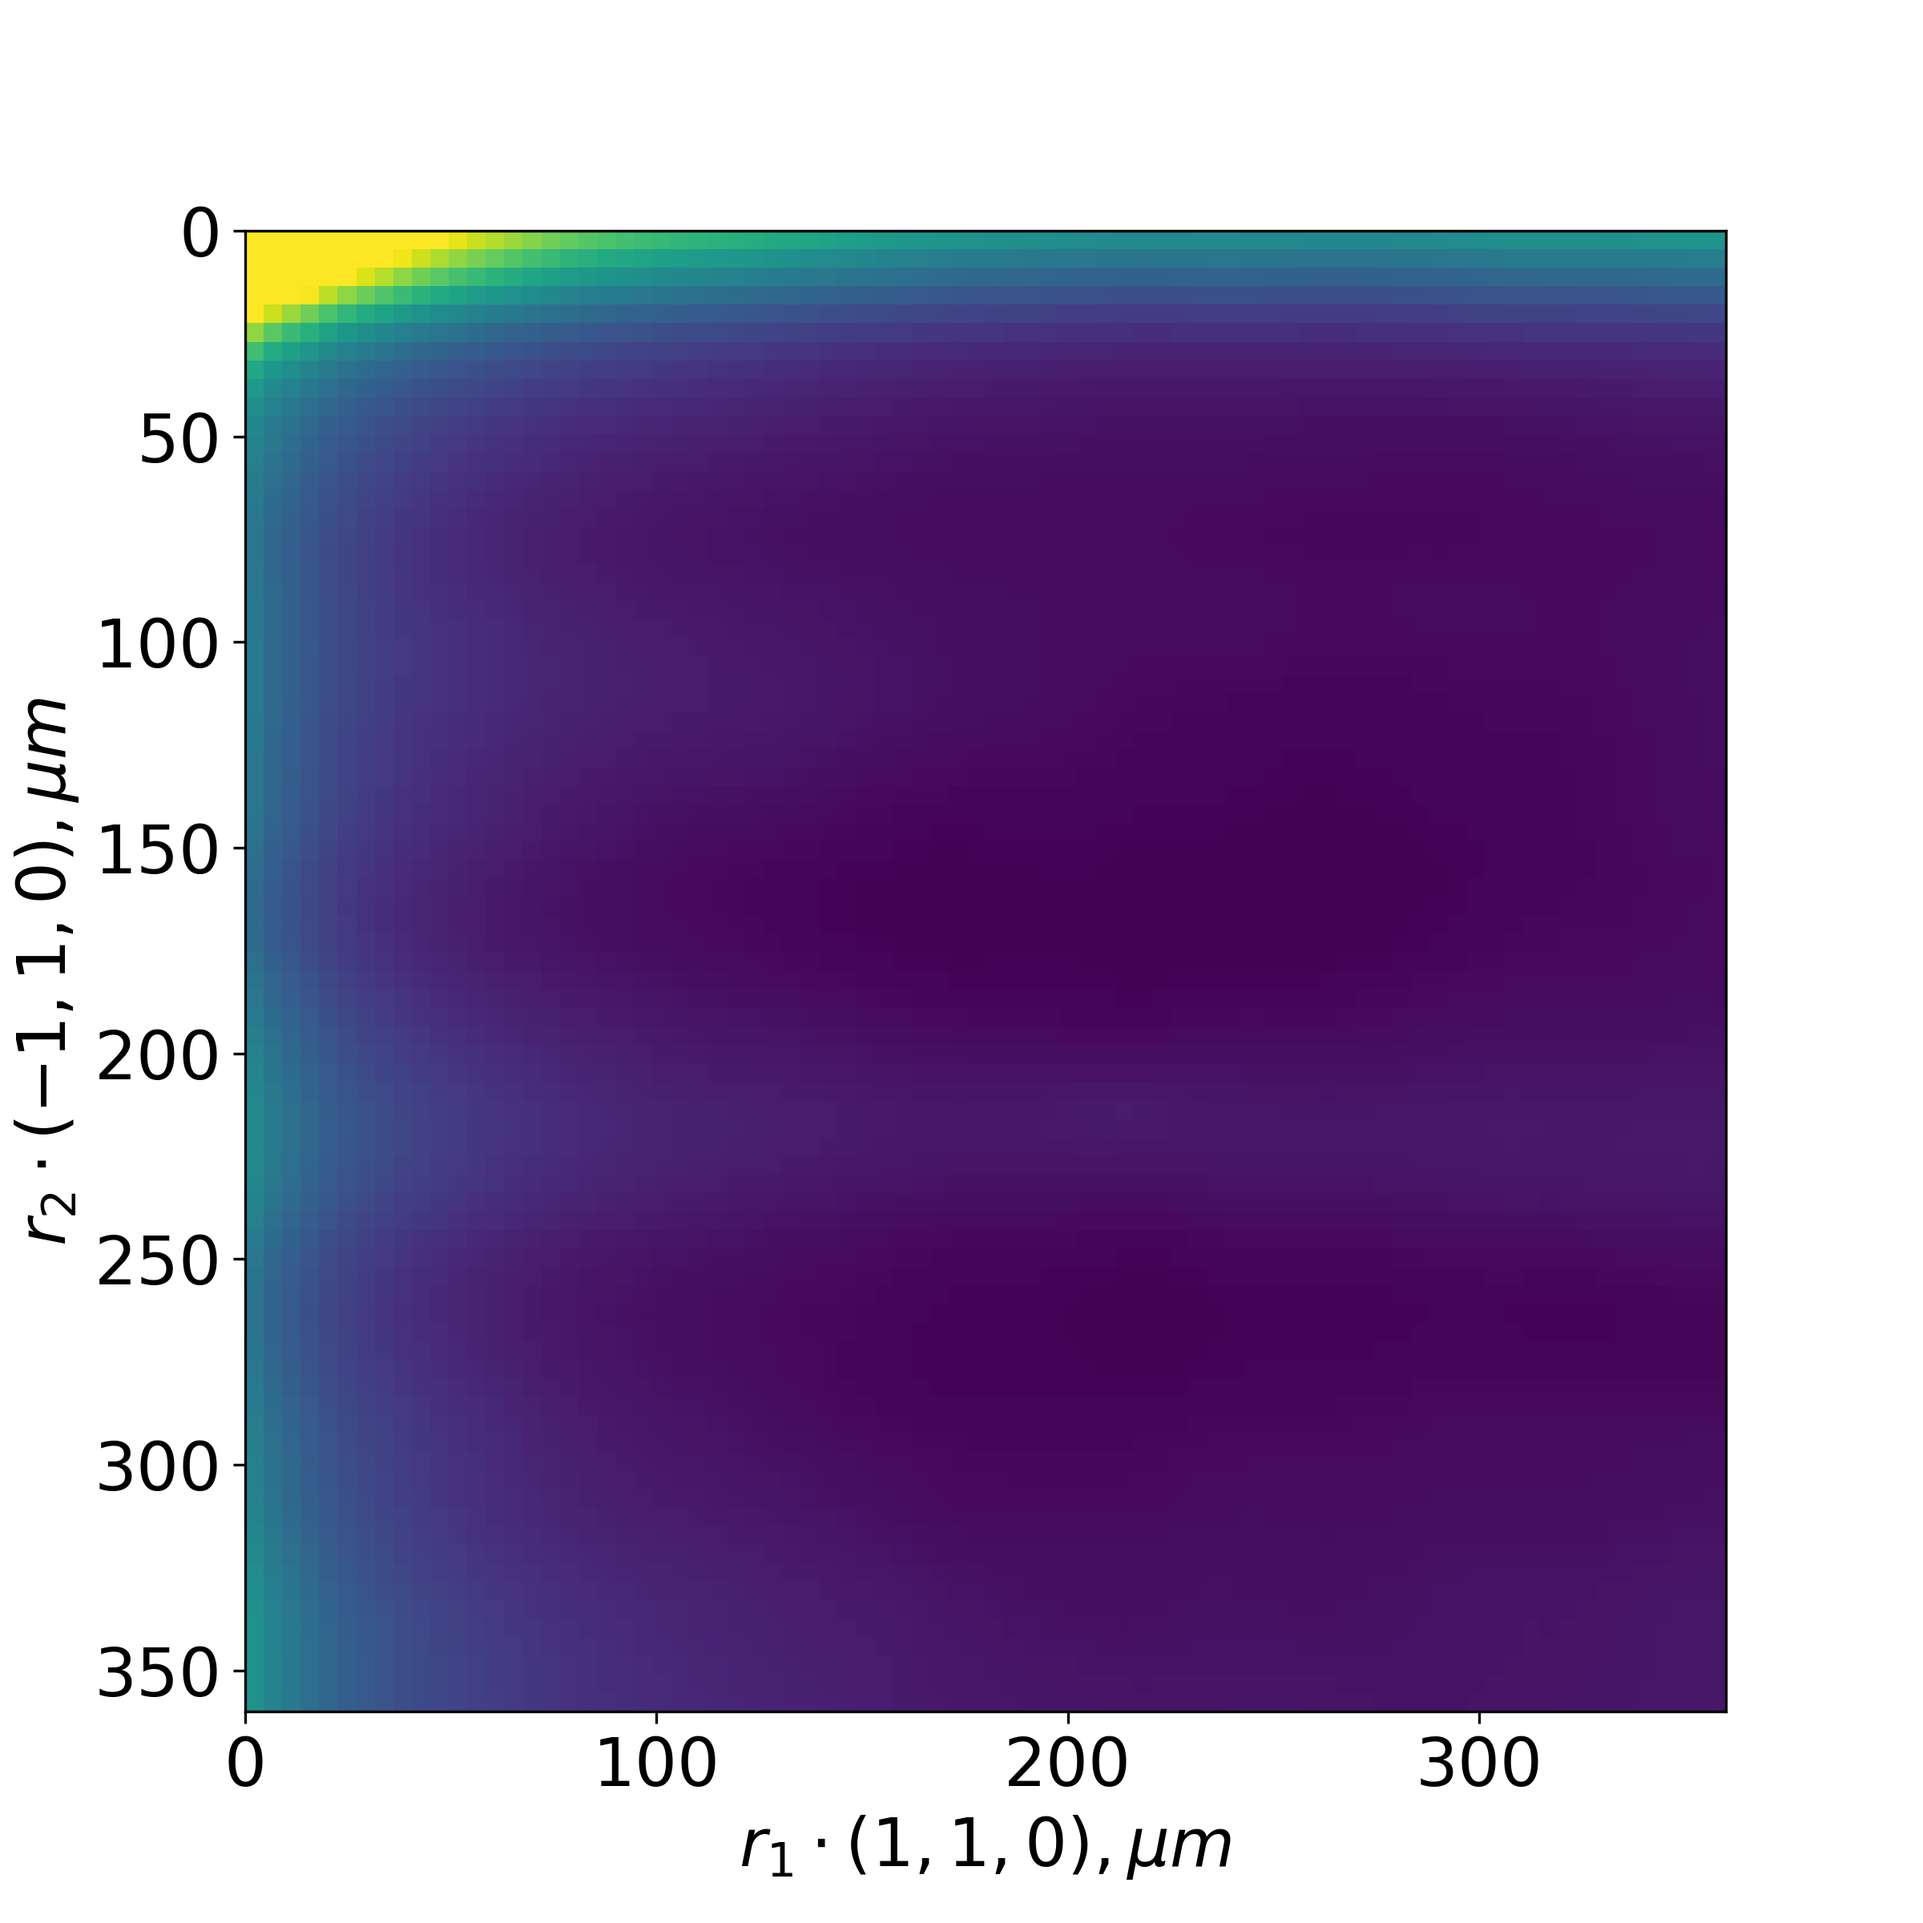
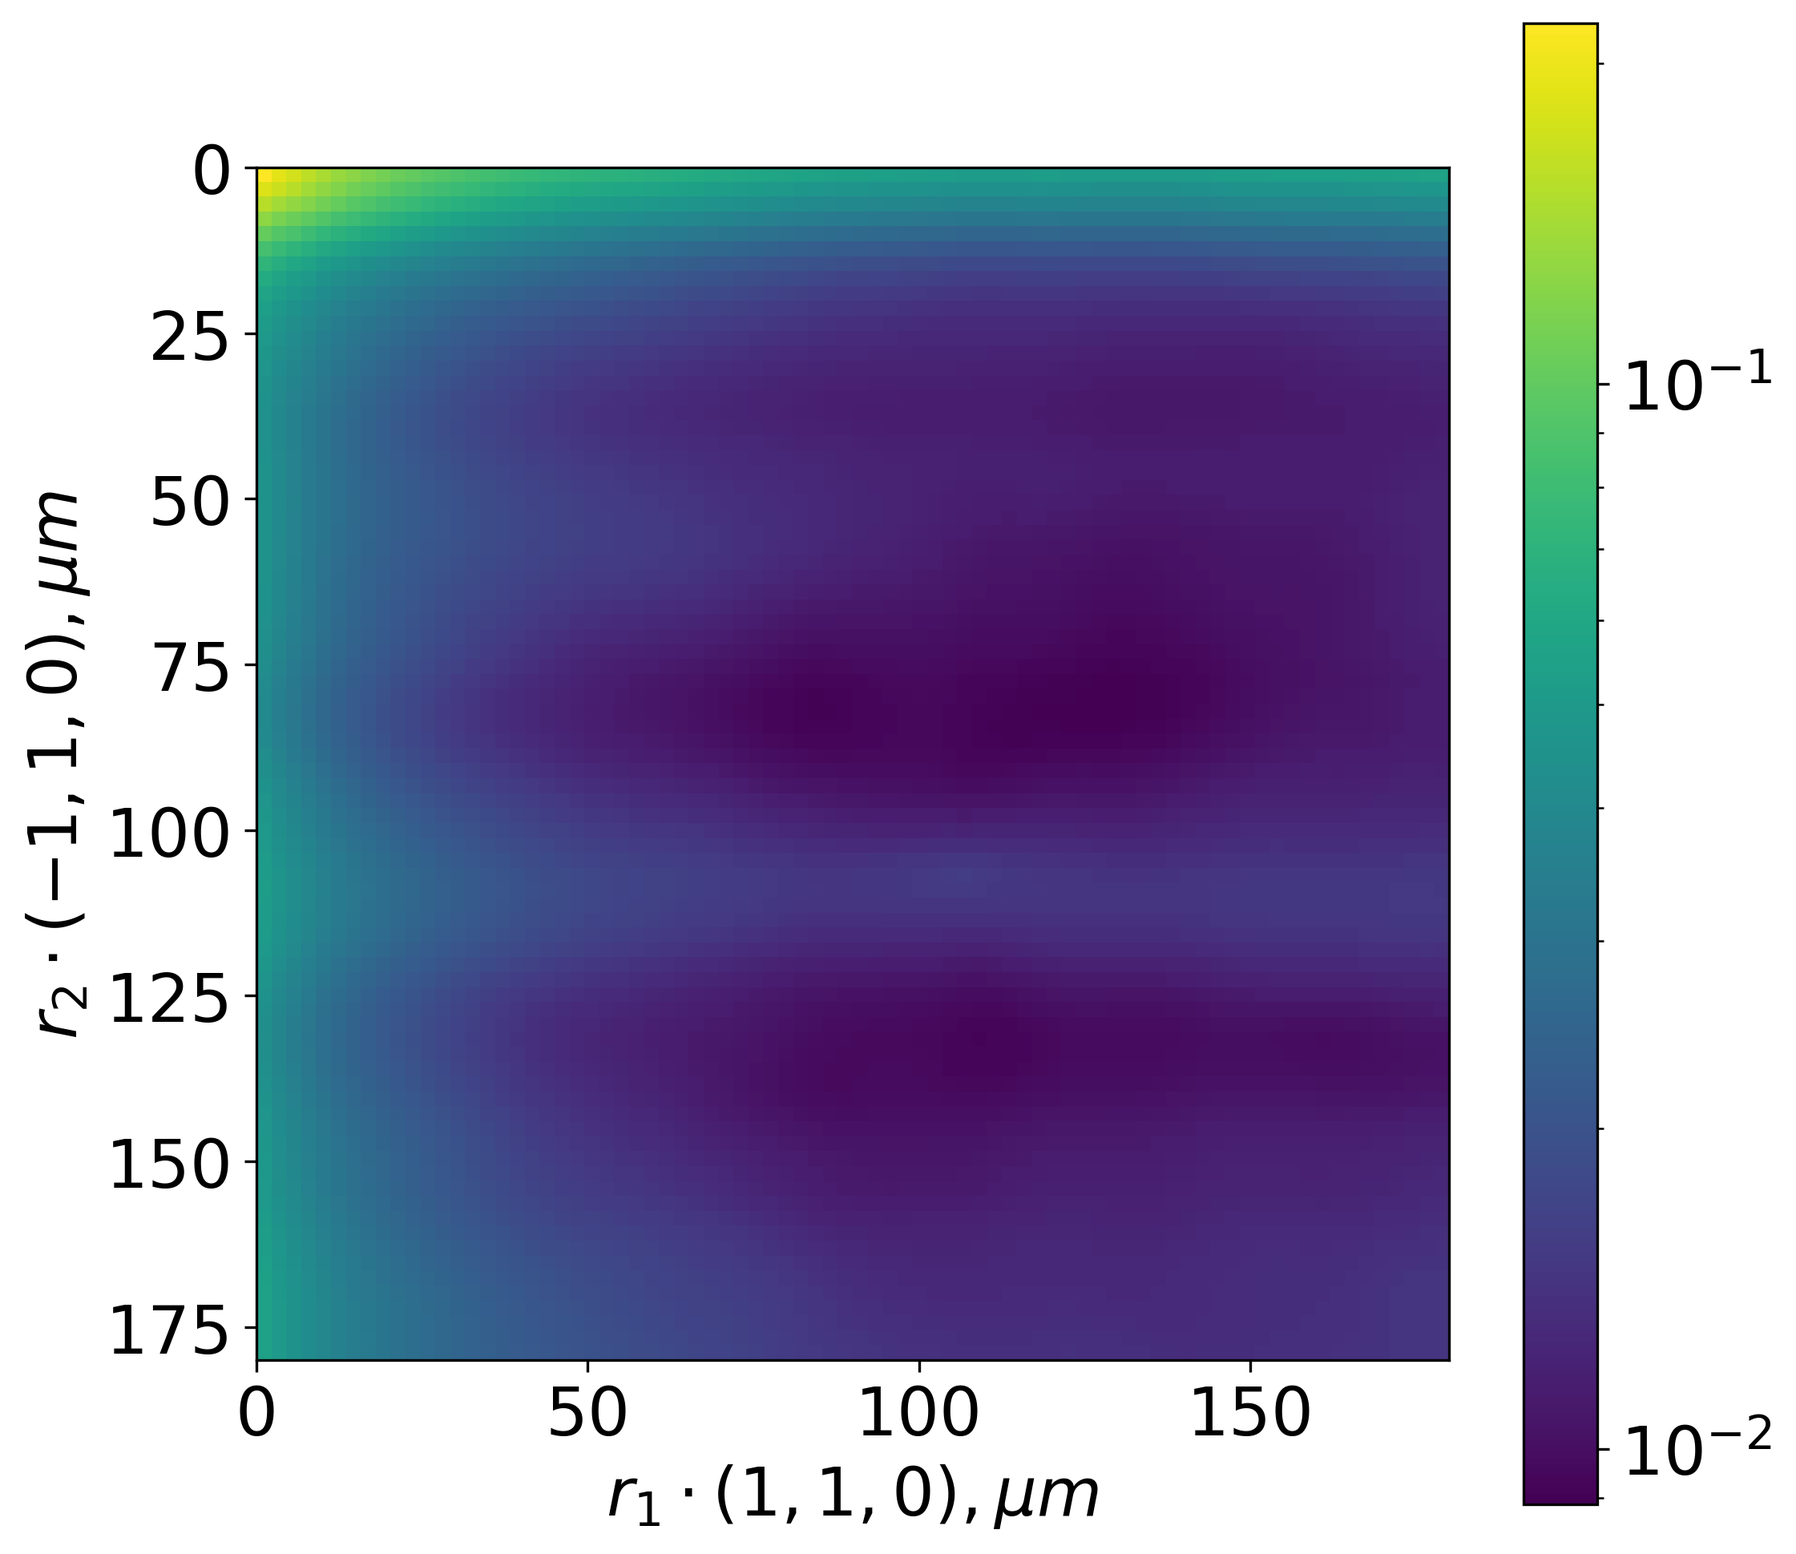
Soil&shale S₃ heatmaps: use log scale

diff --git a/data/heatmap.py b/data/heatmap.py
@@ -3,11 +3,12 @@
 import numpy as np
 import matplotlib.pyplot as plt
 
-data = np.load('soil-s3.npy')
+data = np.load('shale-s3.npy')
 
 plt.figure(figsize = (8, 8), dpi = 300)
 plt.rc('font', size = 20)
-plt.imshow(np.where(data < 0.1, data, 0.1), extent = (0, 160*2.25, 160*2.25, 0))
+plt.imshow(data, extent = (0, 160/2*2.25, 160/2*2.25, 0), norm = 'log')
+plt.colorbar()
 plt.xlabel(r'$r_1 \cdot (1, 1, 0), \mu m$')
 plt.ylabel(r'$r_2 \cdot (-1, 1, 0), \mu m$')
-plt.savefig('../images/soil-s3.png')
+plt.savefig('../images/shale-s3.png', bbox_inches = 'tight')
